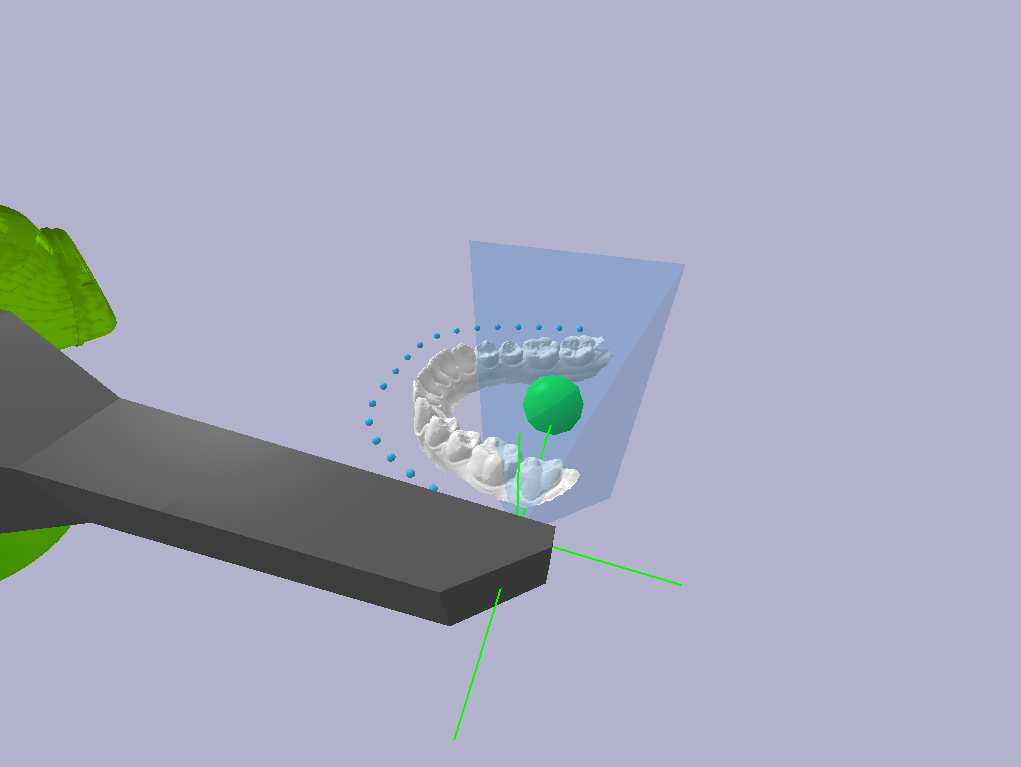
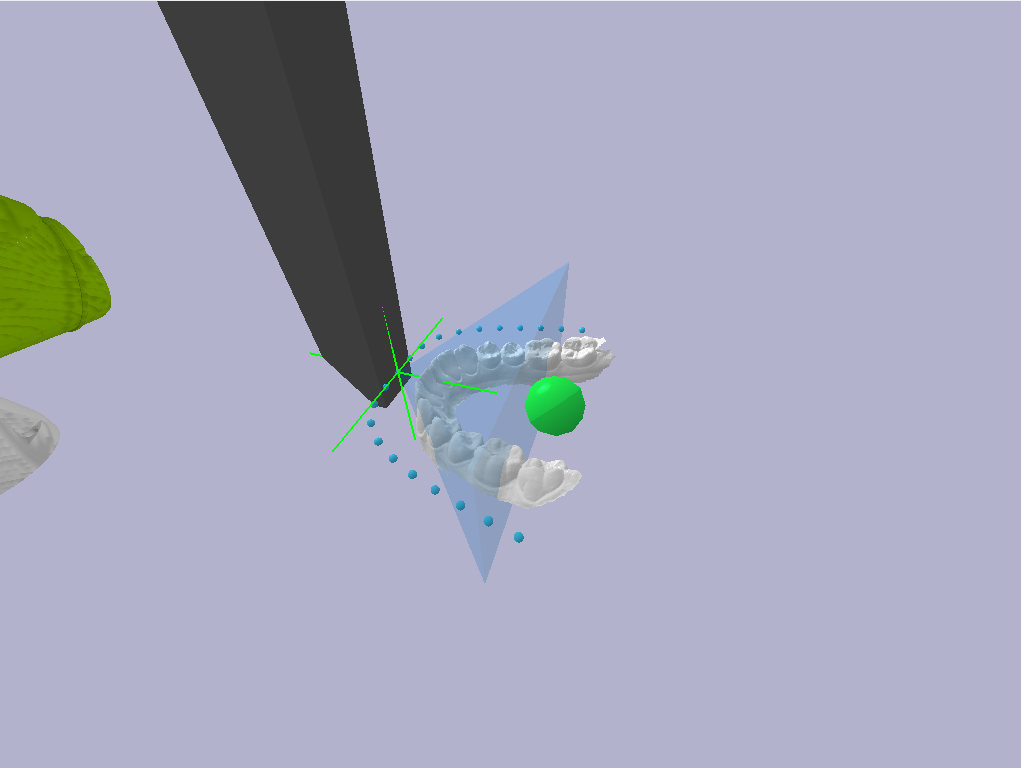
zwischenstand4

Changed region(s): [[0.0, 0.0, 0.668, 0.8396]]

diff --git a/subpapers/01_manuel_stoeth.tex b/subpapers/01_manuel_stoeth.tex
@@ -212,12 +212,12 @@ All parameters are collected in \code{src/ur5e\_bullet/config.py} and sorted by 
 (paths, robot and kinematics, camera model, rendering, PyBullet GUI, visualization, jaw material, Blender, scan positions).
 The file is the sole editing place for the parameters, which are forwarded into the live PyBullet session and, through the standalone
 load, into Blender. Table~\ref{tab:ms-config-entries} lists the parameters together with their meaning and current values.
-\onecolumn
 \begin{table*}[!t]
     \centering
     \footnotesize
     \setlength{\tabcolsep}{4pt}
-    \caption{Configuration parameters in \code{config.py} (part 1 of 2).}
+    \caption{Configuration parameters in \code{config.py}.}
+    \label{tab:ms-config-entries}
     \begin{tabularx}{\textwidth}{@{}>{\raggedright\arraybackslash}p{0.29\textwidth}
                                  X
                                  >{\raggedright\arraybackslash}p{0.30\textwidth}@{}}
@@ -286,18 +286,20 @@ load, into Blender. Table~\ref{tab:ms-config-entries} lists the parameters toget
         \code{LOOK_TARGET_COLOR} & look-target marker color (RGBA) & \code{[0.1, 1.0, 0.3, 0.95]} \\
         \bottomrule
     \end{tabularx}
-    \label{tab:ms-config-entries-1}
 \end{table*}
+
 \begin{table*}[!t]
     \centering
     \footnotesize
     \setlength{\tabcolsep}{4pt}
     \ContinuedFloat
-    \caption{Configuration parameters in \code{config.py} (part 2 of 2, continued).}
+    \caption{Configuration parameters in \code{config.py} (continued).}
     \begin{tabularx}{\textwidth}{@{}>{\raggedright\arraybackslash}p{0.29\textwidth}
                                  X
                                  >{\raggedright\arraybackslash}p{0.30\textwidth}@{}}
         \toprule
+        \textbf{Parameter} & \textbf{Meaning} & \textbf{Current value} \\
+        \midrule
         \multicolumn{3}{l}{\textit{Jaw / material}} \\
         \midrule
         \code{GEBISS_SCALE} & jaw mesh scale (mm to m) & \code{[0.001, 0.001, 0.001]} \\
@@ -305,7 +307,6 @@ load, into Blender. Table~\ref{tab:ms-config-entries} lists the parameters toget
         \code{GEBISS_SPECULAR} & specular IOR level of the jaw material & \code{0.2} \\
         \code{GEBISS_SHADING} & blender jaw shading mode: \code{flat}/ \code{smooth}/ \code{auto_smooth} & \code{auto_smooth} \\
         \code{GEBISS_AUTO_SMOOTH_ANGLE_DEG} & auto-smooth angle threshold (deg) & \code{30} \\
-        \textbf{Parameter} & \textbf{Meaning} & \textbf{Current value} \\
         \midrule
         \multicolumn{3}{l}{\textit{Blender}} \\
         \midrule
@@ -323,15 +324,11 @@ load, into Blender. Table~\ref{tab:ms-config-entries} lists the parameters toget
         \code{START_POSITIONS} & start poses, approach sequences and parabola waypoint generators; described in the usage section (Section~\ref{ms:start-positions}) & --- \\
         \bottomrule
     \end{tabularx}
-    \label{tab:ms-config-entries-2}
 \end{table*}
-\twocolumn
-The \code{config.py} file is the only place to edit parameters; the values are forwarded into the live PyBullet session and, through the standalone
-load, into Blender.
 
 \subsection{Usage}\label{ms:usage}
 
-\subsubsection{Getting started}\label{ms:getting-started}
+\subsubsection{Getting started/Basic Commands}\label{ms:getting-started}
 
 The project is available under the dentavision GitHub organisation \cite{ur5e_bullet_repository}. It requires Python~$\geq$~3.14, Poetry~$\geq$~2.x and
 a GUI-capable Blender build available as \code{blender} on the \code{PATH}. The Poetry-managed simulation dependencies
@@ -341,51 +338,107 @@ On boot the arm moves to the \code{BOOT_START} pose without a jaw model loaded. 
 
 \begin{itemize}[leftmargin=*]
     \item \code{m x y z [rx ry rz]} moves the TCP via RRT (asks for confirmation; orientation defaults to \code{0 0 0}). The position values should not exceed 1m in any direction due to the operational range of the robot arm (will throw error) and the x value should be kept out of the negative range as the IK solutions tend to become somewhat unpredictable in the area behind the robot. Accepted inputs for the command would be for example \code{m 0.85 0 0.4} or \code{m 0.6 0.3 -0.4 180 90 0}.
-    \item \code{o x y z} sets the tool offset. This is only useful for testing the offset value of new robot attachments instead of the current scanner model, as the correct offset of the current scanner is loaded from config.py
-    \item \code{s <speed>} sets the global move speed (default \code{0.5}). This influences the speed with which the robot arm drives aloong the rrt path of a movement
+    \item \code{o x y z} sets the tool offset. This is only useful for testing the offset value of new robot attachments instead of the current scanner model, as the correct offset of the current scanner is loaded from config.py.
+    \item \code{s <speed>} sets the global move speed (default \code{0.5}). This influences the speed with which the robot arm drives aloong the rrt path of a movement.
     \item \code{@} resets the robot to the last joint configuration. This is needed, because the Pybullet GUI cant be configured to not let the mouse cursor interact with scene objects. So if clicking on the robot throws it off its position this is for resetting that.
     \item \code{jaw <nr> [upper|lower]} loads the jaw mesh from \code{data/meshes_jaws/<nr>} into PyBullet and Blender. This can only be done, when a jaw has already been loaded by a start position.
     \item \code{q} quits the interactive loop and closes the simulation including blender.
+    \item \code{start <name>} drives the robot to the start position <name> if defined in START\_POSITIONS in config.py.
 \end{itemize}
 
 \subsubsection{Defining start positions}\label{ms:start-positions}
 
 A start position bundles a target TCP pose, the jaw placement, orientation anchors, the camera view and further parameters for a waypoint generator. The entire goal of this composition is to define a function, that creates waypoints along a parabel, which are suited to the specific side of the jaw that has to be scanned from them. The config.py in the repository\cite{ur5e_bullet_repository} already containes start positions for the first jaw, meaning waypoint parabel configurations for the outer inner and upper side of its upper and lower jaw half. The following points describe how the configuration entries can be used to influence the waypoint generation:
-
+\begin{lstlisting}[caption={start position example}, label={lst:ms-start_pos_example}, language=Python]
+{
+  "a1l": {
+    "tcp_pos":  [0.616, 0, 0.296],
+    "tcp_ori_deg": [180, 90, 0],
+    "approach": [
+      {"tcp_pos": [0.85, 0, 0.38],
+      "tcp_ori_deg": [0, 0, 0],
+      "label": "1",
+      "use_current_seed": False},
+      {"tcp_pos": [0.616, 0, 0.296],
+      "tcp_ori_deg": [0, 90, 0],
+      "label": "2",
+      "use_current_seed": True}],
+    "jaw_pos":  [0.65, 0, 0.3],
+    "jaw_euler_deg": [0, 0, 90],
+    "jaw_folder": 1,
+    "jaw_type":  "lower",
+    "generator":parabola_waypoints,
+    "look_at_jaw": True,
+    "look_target": [0.662, 0.0],
+    "parabola":
+      {"x0": 0.616,
+      "a": 0.047,
+      "z": 0.296,
+      "n": 21,
+      "y_max": 0.037,
+      "power": 4},
+    "ori_anchors":
+      {"start": [90, 0, 0],
+      "mid": [180, 90, 0],
+      "end": [-90, 0, 0]},
+    "view":
+      {"apply": True,
+      "distance": 0.1,
+      "yaw": 90.0,
+      "pitch": -89.0,
+      "target": [0.65, 0.0, 0.3]},
+  }
+}
+\end{lstlisting}
 \begin{itemize}[leftmargin=*]
-    \item \code{tcp_pos} and \code{tcp_ori_deg}: These two values define the position and orientation the robot drives to before the jaw gets loaded. it should be equivalent to the origin of the start positions corresponding parabel
+    \item \code{tcp_pos} and \code{tcp_ori_deg}: These two values define the position and orientation the robot drives to before the jaw gets loaded. it should be equivalent to the origin of the start positions corresponding parabel\ref{fig:ms-waypoint_example_front}
     \begin{figure}[H]
     \centering
     \includegraphics[width=\columnwidth]{assets/manuel/pybullet/waypoint_example_front}
     \caption{Scanner at the defined tcp\_pos and tcp\_ori\_deg of a start position}
     \label{fig:ms-waypoint_example_front}
     \end{figure}
-    \item \code{approach}: optional list of intermediate poses, each with its own IK seed, driven before the final pose.
-    \item \code{jaw\_pos} / \code{jaw\_euler\_deg}: placement of the jaw mesh in the PyBullet scene and Blender.
-    \item \code{jaw\_folder} / \code{jaw\_type}: jaw mesh directory under \code{data/meshes\_jaws/} and side (\code{upper} / \code{lower}).
-    \item \code{generator}: callable that computes the waypoints from this config (e.g.\ \code{parabola\_waypoints}); \code{waypoints} is a static
+    \item \code{approach}: Optional list of intermediate poses. These are driven to before the position from the values above. The main reason was to be able to set a default point from which the tcp\_pos is always reachable in order to prevent weird IK solutions based on the position of the robot before driving to the start position.
+    \item \code{jaw_pos} / \code{jaw_euler_deg}: Placement of the jaw mesh in the PyBullet scene and Blender.
+    \item \code{jaw_folder} / \code{jaw_type}: Jaw mesh directory under \code{data/meshes_jaws/} and side (\code{upper} / \code{lower}).
+    \item \code{generator}: Callable that computes the waypoints from this config (e.g.\ \code{parabola_waypoints}); \code{waypoints} is a static
     list fallback when no generator is set.
-    \item \code{parabola}: generator parameters (\code{x0}, \code{a}, \code{z}, \code{n}, \code{y\_max}, \code{power}).
-    \item \code{ori\_anchors}: orientation anchors (\code{start}, \code{mid}, \code{end}) in degrees, interpolated by the generator.
-    \item \code{look\_at\_jaw}: aims the camera view axis at the jaw model (or the optional \code{look\_target} \code{[x, y]}) projected to plane height.
-    \item \code{view}: PyBullet GUI camera for this position; \code{apply: true} applies \code{distance}, \code{yaw}, \code{pitch} and
-    \code{target}; \code{apply: false} (or absent) leaves the camera untouched.
+    \item \code{parabola.x0}: This is the world x position of the origin of the parabel. Should equal to the x value of \code{tcp_pos}.
+    \item \code{parabola.a}: This is the multiplicator of the parabel. With this its possible to stretch the height of the parabel along the world x axis.
+    \item \code{parabola.z}: Corresponds to the height at which the parabel lies flat down. Should equal the z value of \code{tcp_pos}.
+    \item \code{parabola.n}: Configures the amount of waypoints that are generated along the parabel. The number should be odd so the center waypoint lands on the \code{tcp_pos}.
+    \item \code{parabola.y_max}: This configures the span between the two outermost waypoints or in other words the range between the two ends of the parabel.
+    \item \code{parabola.power}: With this its possible to chose the power of the parabel. Mostly only 2 and for are needed here.
+    \item \code{ori_anchors}: The point of the orientation anchors is to define 3 orientations at the origin and at each end of the parabel. the orientation of the robot at the paypoints between these anchors is interpolated with these values. The images here show the start\ref{fig:ms-waypoint_example_left} mid\ref{fig:ms-waypoint_example_front} and end\ref{fig:ms-waypoint_example_right} orientation anchor position.
+    \begin{figure}[H]
+    \centering
+    \includegraphics[width=\columnwidth]{assets/manuel/pybullet/waypoint_example_left}
+    \caption{Scanner at W\_min with the orientation of the start anchor}
+    \label{fig:ms-waypoint_example_left}
+    \end{figure}
+    \begin{figure}[H]
+    \centering
+    \includegraphics[width=\columnwidth]{assets/manuel/pybullet/waypoint_example_right}
+    \caption{Scanner at W\_max with the orientation of the end anchor}
+    \label{fig:ms-waypoint_example_right}
+    \end{figure}
+    \item \code{look_at_jaw}: This is an additional toggle that changes the orientation generation additionally to the interpolation of the orientation anchors. It changes the orientation slightly, so the view direction looks exactly at the point defined in \code{look_target}, which ensures that the gradient of the view direction lies on the same level as the parabel. This helps to create a more direct vieweing angle on the tooth surface, but is only useful for the scan of the outer side o a jaw.
+    \item \code{view}: Here the Pybullet GUI camera viewpoint can be customized for a start position, so the user doesn't have to manually drag the camera there.
+    \item \code{view.apply}: This is a toggle, with which the camera position change can be turned on or off.
+    \item \code{view.distance}: This defines the distance of the camera from the target position.
+    \item \code{view.yaw/pitch}: Yaw and pitch of the camera. Pitch can't be 90° because a pybullet bug lets the whole scenery disapper, when it has that value.
+    \item \code{view.target}: the x y z position onto which the camera looks and revolves around.
 \end{itemize}
 
 The default configuration ships six positions for the three lower (\code{a1l}, \code{o1l}, \code{i1l}) and three upper arches (\code{a1u},
 \code{o1u}, \code{i1u}).
+\subsubsection{Start Position Commands}\label{ms:start-pos_commands}
 
-\subsubsection{Scan workflow}\label{ms:scan-workflow}
-
-Once a start position is active, \code{+ [n]} \code{- [n]} steps \code{n} waypoints forward or backward along the sweep. The scan commands are:
-
+Once a start position is active, the following additional commands can be used:
 \begin{itemize}[leftmargin=*]
-    \item \code{start <name>} moves the arm to a start position and loads the jaw model (available: \code{a1l}, \code{o1l}, \code{i1l},
-    \code{a1u}, \code{o1u}, \code{i1u}).
-    \item \code{scan [n]} drives all (or the first \code{n}) waypoints, saves the camera poses and renders the left/right images at each one.
-    \item \code{scan-all <start1> [start2 ...]} runs \code{start} and a full \code{scan} for each given start position in sequence (unreachable
-    positions are skipped, a render failure aborts the batch).
-    \item \code{visualize-scan <scan\_dir|render/> [--out \ldots] [--ray-len m]} runs the offline pose check (Section~\ref{ms:visualization}).
+    \item \code{+/-}: Can be used either only as \code{+/-} to let the robot drive to the next upper/lower waypoint or as \code{+/- <n>}, which drives the robot <n> waypoints in the chosen direction.
+    \item \code{scan <n>}: This allows to render a specific amount <n> of waypoints, which was mostly used to test the metadata generation of the scan process.
+    \item \code{scan-all <start1> [start2 ...]}: This command allows to render multiple start positions sequentially, which makes it possible to automate the hour long rendering process of multiple start positions.
 \end{itemize}
 
 Starting from a user-selected start position with its jaw model loaded (STL geometry placed both in PyBullet and Blender), the scan sweep visits every

diff --git a/main.tex b/main.tex
@@ -15,6 +15,7 @@
 \usepackage{xparse}
 \usepackage{booktabs} % Required for \toprule, \midrule, \bottomrule in tables
 \usepackage{array,tabularx} % Full-width tables with wrapping columns
+\usepackage{xltabular} % Longtable + tabularx (page-breaking full-width tables)
 \newcolumntype{Y}{>{\raggedright\arraybackslash}X}
 \usepackage{placeins} % Provides \FloatBarrier to keep figures from moving too far
 
@@ -47,6 +48,9 @@
 \usepackage{graphicx}
 % \usepackage[colorlinks=true, allcolors=blue]{hyperref}
 \usepackage{booktabs}
+\usepackage{listings}
+\lstset{language=Python, basicstyle=\ttfamily, breaklines=true}
+
 
 
 \newcommand{\code}[1]{\texttt{\detokenize{#1}}}
